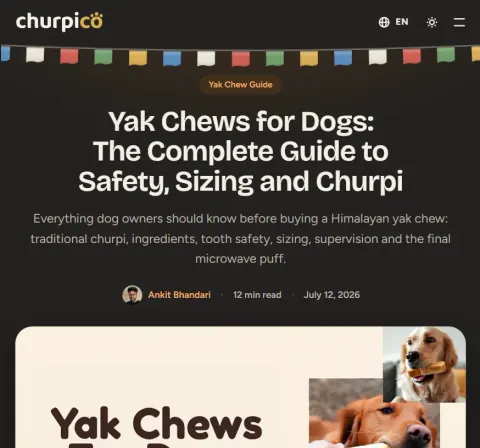
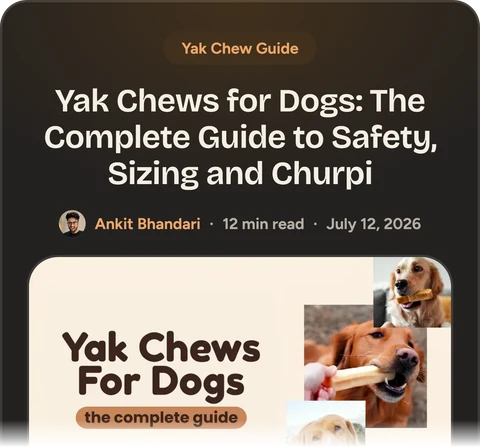
Draw the project screens instead of screenshotting them
The stacked cards were shrunken screenshots, illegible at 110px. Each
project's front and back are now its own UI rebuilt in HTML/CSS from its
code and tokens (Porto's stepper and dropzone, Churpico's Smokehouse hero
and guide, Sluice's route map and routing chart, a LensPool username card
and the marketplace grid), cropped to the part worth seeing and rendered at
8x. Fronts are 212x200, backs 215x200 to match the back card's aspect, and
every card runs to the bottom edge so the pair shares one baseline.

All four now load from public/projects instead of Cloudinary.

diff --git a/src/data/projects.ts b/src/data/projects.ts
@@ -1,5 +1,3 @@
-import { cloudinary } from "../lib/image";
-
 /**
  * A screenshot in two sizes: `thumb` for the ~110px-tall cards on the home
  * page (sized for 3x screens), `src` for the lightbox.
@@ -19,22 +17,20 @@ export interface Project {
   screenshotStack?: { front: Shot; back: Shot };
 }
 
-const CLOUDINARY_BASE = "https://res.cloudinary.com/dvnt65etc/image/upload/f_auto,q_auto/portfolio";
-
-/** A screenshot hosted on Cloudinary, resized on delivery. */
-const cloudinaryShot = (id: string): Shot => ({
-  src: cloudinary(`${CLOUDINARY_BASE}/${id}`, "c_limit,w_1800,h_1800"),
-  thumb: cloudinary(`${CLOUDINARY_BASE}/${id}`, "c_limit,w_480,h_480"),
-});
-
 /**
- * A screenshot in public/projects/. Needs a `<name>-thumb.webp` alongside
- * `<name>.webp`, at most 480px on its longest side.
+ * A project screen in public/projects/: `<name>.webp` (at most 1600px on its
+ * longest side) and `<name>-thumb.webp` (at most 480px). The current set is
+ * drawn rather than captured — each product's own UI rebuilt in HTML/CSS
+ * from its code and tokens, cropped to the part worth seeing, and rendered
+ * at 8x: fronts at 212x200, backs at 215x200 (the stack's back-card aspect).
  */
 const localShot = (name: string): Shot => ({
   src: `/projects/${name}.webp`,
   thumb: `/projects/${name}-thumb.webp`,
 });
+
+/** A project's front and back screens, `<slug>-front` and `<slug>-back`. */
+const stack = (slug: string) => ({ front: localShot(`${slug}-front`), back: localShot(`${slug}-back`) });
 
 export const projects: Project[] = [
   {
@@ -42,40 +38,28 @@ export const projects: Project[] = [
     description:
       "Move your tweets to Bluesky in a few clicks, processed fully on your device. Featured by Lifehacker, Mashable and more.",
     url: "https://github.com/Nester-xyz/Porto",
-    screenshotStack: {
-      front: cloudinaryShot("porto-front"),
-      back: cloudinaryShot("porto-back"),
-    },
+    screenshotStack: stack("porto"),
   },
   {
     title: "Churpico",
     description:
       "Himalayan yak cheese dog chews from Nepal, with an evidence-led journal on chew safety, sizing and how churpi is made.",
     url: "https://www.churpico.com",
-    // Screenshots of the site in its dark "Smokehouse" theme: home hero + the yak chew guide
-    screenshotStack: {
-      front: localShot("churpico-front"),
-      back: localShot("churpico-back"),
-    },
+    // The site in its dark "Smokehouse" theme: the hero, and the yak chew guide
+    screenshotStack: stack("churpico"),
   },
   {
     title: "Sluice",
     description:
       "Decentralized AI routing layer that sends each request to the best provider across cost, speed, quality and privacy.",
     url: "https://thesluice.xyz",
-    screenshotStack: {
-      front: cloudinaryShot("sluice-front"),
-      back: cloudinaryShot("sluice-back"),
-    },
+    screenshotStack: stack("sluice"),
   },
   {
     title: "LensPool",
     description:
       "Marketplace for Lens Protocol usernames with listings, offers, wallet flows and on-chain ownership details.",
     url: "https://github.com/Aryog/lenspool",
-    screenshotStack: {
-      front: cloudinaryShot("lenspool-front"),
-      back: cloudinaryShot("lenspool-back"),
-    },
+    screenshotStack: stack("lenspool"),
   },
 ];

diff --git a/src/index.css b/src/index.css
@@ -569,8 +569,8 @@ body {
 .project-stack-back {
   right: 0;
   height: 76%;
-  /* Pin every back card to Porto/Sluice's aspect so their widths match;
-     cover crops LensPool's portrait shot rather than letting it render skinny. */
+  /* Pin every back card to one aspect so their widths match (the drawn
+     backs are made at it); cover crops anything that strays. */
   aspect-ratio: 1.073;
   object-fit: cover;
   z-index: 1;
